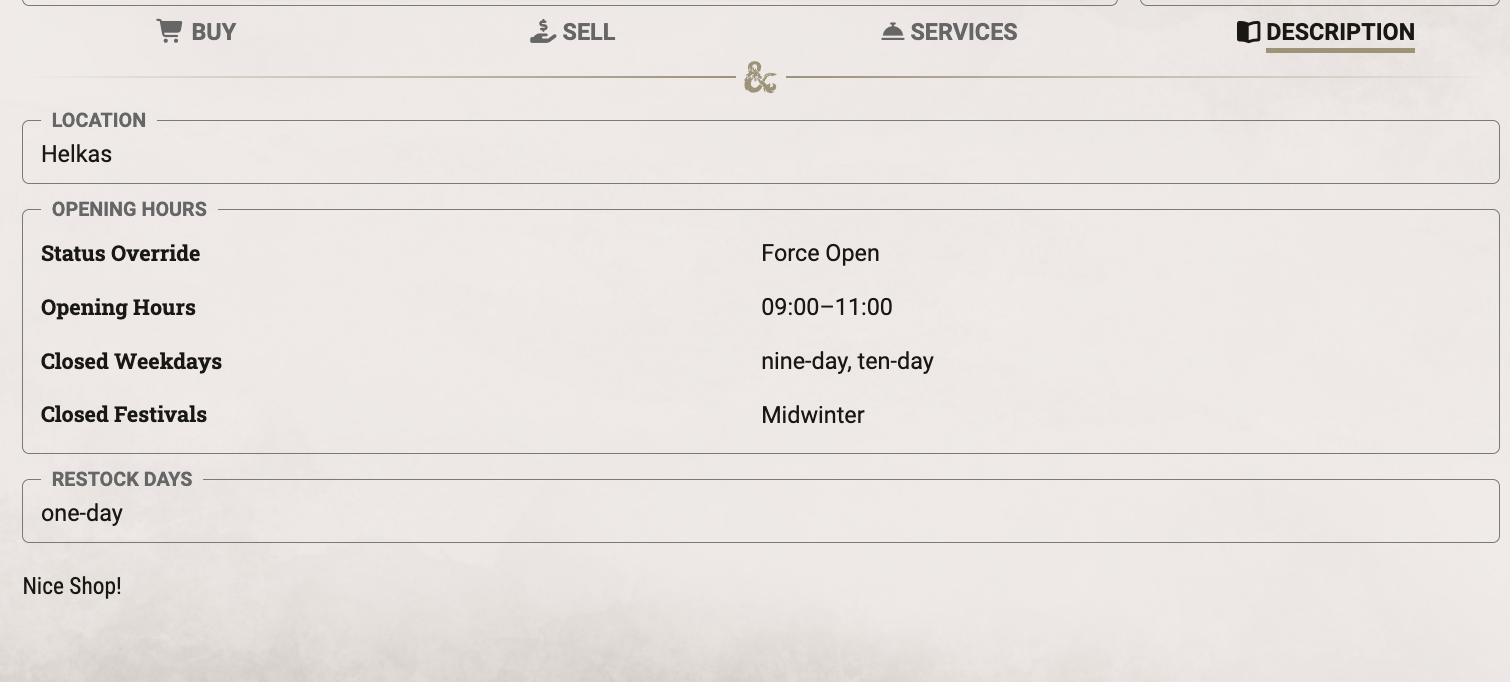
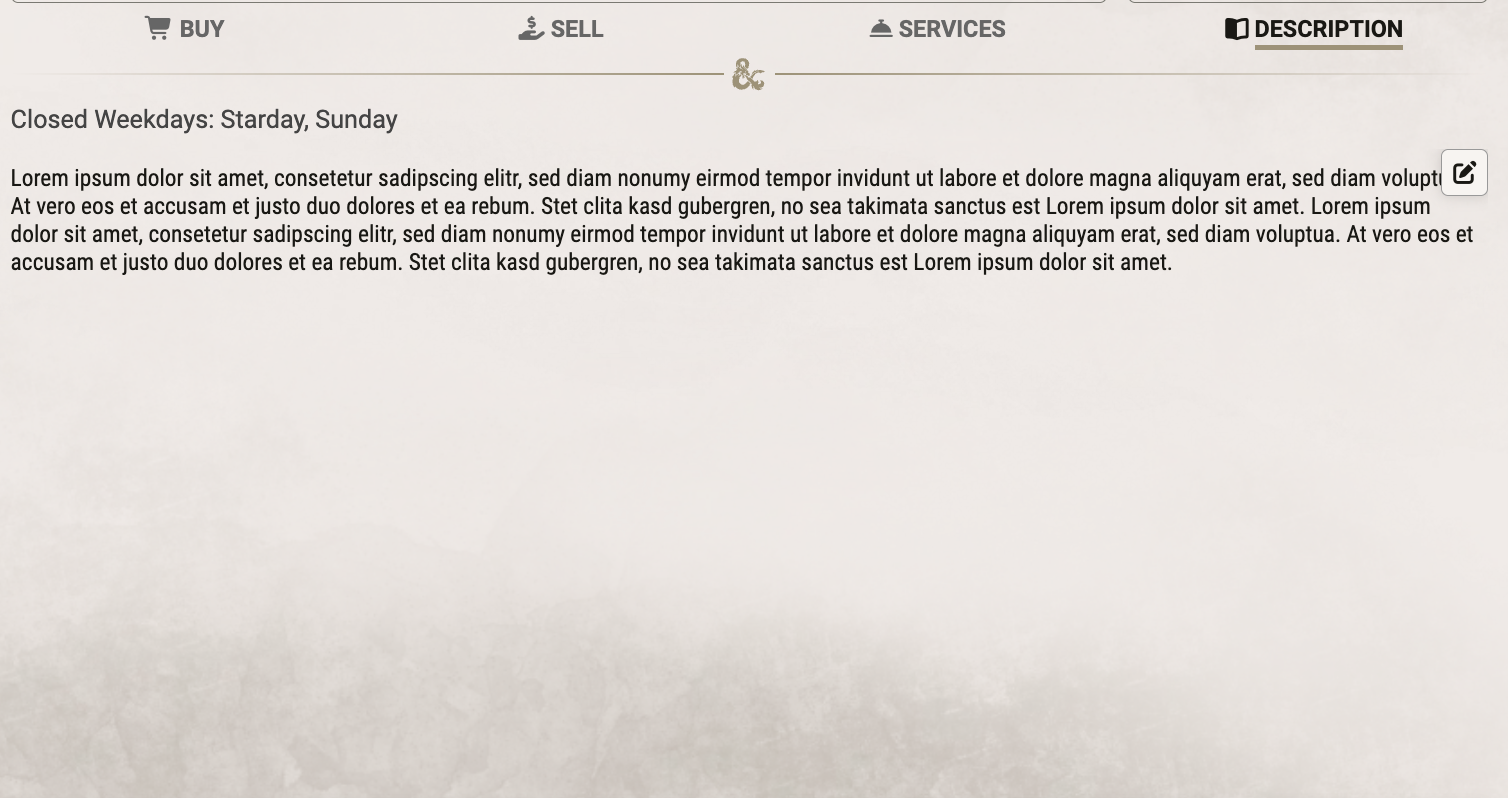
version 1.2.0

diff --git a/css/style.css b/css/style.css
@@ -414,6 +414,7 @@
     flex: 1;
     display: flex;
     flex-direction: column;
+    background: transparent;
   }
 
   .document-image {

diff --git a/README.md b/README.md
@@ -34,8 +34,8 @@ recipes here, and players come here to browse the shops and recipes available to
 
 A new shop needs only a name. Pick a Starter Pack to fill its shelves right away with the stock of a
 Blacksmith, Alchemist, Tavern, General Store, Magic Shop, or Blackmarket. Starter Packs take their items
-from the Player's Handbook if it is active, otherwise from the SRD (SRD 5.1 for the 2014 rules). Every new
-shop starts out Inactive and stays hidden from players until the GM opens it for business.
+from the Player's Handbook, or the SRD without it. Every new shop starts out Inactive and stays hidden from
+players until the GM opens it for business.
 
 ---
 
@@ -48,8 +48,8 @@ The Shops tab lists every shop with its owner, opening hours, Settlement Cap, an
 - **Active and Inactive.** Shops sit in separate groups, and players only ever see the Active ones. With
   Activation set to Scene Active in its Vendor Settings, a shop is Active only while one of its scenes is.
   Toggling it by hand lasts until the active scene changes.
-- **Shop actions.** Right-click a shop to toggle it Active, open its Vendor Settings, duplicate it, or
-  delete it.
+- **Shop actions.** Right-click a shop to toggle it Active, open its Vendor Settings or Transaction Log,
+  duplicate it, or delete it.
 - **Show to All Players.** Opens the shop on every connected screen at once, for the moment the party steps
   through the door.
 
@@ -64,8 +64,9 @@ The Shops tab lists every shop with its owner, opening hours, Settlement Cap, an
 
 ### Shop Sheet
 
-Each shop opens in its own sheet with four tabs. The header shows the shop's owner, Settlement Cap, Buy and
-Sell modifiers, and the coin in its till.
+Each shop opens in its own sheet with four tabs. Its location and opening hours show under its name. The
+header shows the shop's owner and its Buy and Sell modifiers. The GM also sees the Settlement Cap and the
+shop money there, and finds buttons for the Vendor Settings and the Transaction Log in the title bar.
 
 - **Buy.** The GM adds items from the Compendium Browser, by UUID, or by dragging them in. Fill from Table
   draws stock from a RollTable, configuring drawn Spell Scrolls and enchantment items by hand or at random,
@@ -77,15 +78,14 @@ Sell modifiers, and the coin in its till.
   inventory instead of by item type.
 - **Services.** Holds Lodging and Hirelings, along with any Buy item marked as a Service. A service costs
   coin but hands over no item.
-- **Description.** The shop's location, opening hours, restock days, and a description of the place.
-  Outside its opening hours players can't enter the shop, unless the GM forces it open.
+- **Description.** A description of the place and the days the shop is closed. Outside its opening hours
+  players can't enter the shop, unless the GM forces it open.
 - **Who buys.** Players shop with their own character or with the Party actor.
-- **Checkout.** Purchases and sales gather in a cart. On confirmation the order goes to the GM as a chat
-  card, and items and coin change hands once the GM accepts.
-- **Stacking.** An item of the same type and identifier that the character already owns gains quantity
-  instead of arriving as a copy. Containers never stack, and neither do items that still have the default
-  identifier, which is the item type such as "weapon". The Buy tab shows the GM a warning icon for these
-  items, for copies sharing an identifier, and for duplicate entries.
+- **Checkout.** Purchases and sales gather in a cart and go out as one order.
+- **Stacking.** A bought item gains quantity on an item of the same type and identifier that the character
+  already owns, instead of arriving as a copy. Containers and items with the default identifier, the item
+  type such as "weapon", never stack. The GM sees a warning icon in the Buy tab for items that can't stack
+  and for duplicate entries.
 
 <table>
   <tr>
@@ -108,34 +108,54 @@ Sell modifiers, and the coin in its till.
     </td>
     <td width="50%">
       <strong>Description tab</strong><br>
-      <img src="docs/example_shop_description.png" alt="Description tab with location, opening hours, closed days, and restock days">
+      <img src="docs/example_shop_description.png" alt="Description tab with the closed days and the description of the shop">
     </td>
   </tr>
 </table>
 
 ### Stock & Restock
 
-Vendor Settings hold the shop's name, owner, location, opening hours, and Restock Days, its price
-modifiers and Settlement Cap, its money, the item types it buys, and the default stock for new items.
+The Vendor Settings have three tabs. General holds the shop's name, owner, icon, location, scenes, and
+opening hours. Prices holds its modifiers and Settlement Cap. Money & Stock holds its money, the item types
+it buys, the default stock for new items, and the Restock Days. Each item has its own Item Settings, which
+the GM opens with the pencil button in Edit mode or from the item's menu.
 
-- **Stock modes.** Each item has Normal Stock, Unlimited Stock, or Exclude from Stock. Excluded items keep
-  their count but never restock, for the one-of-a-kind piece.
+- **Stock modes.** Each item has Normal Stock, Unlimited Stock, or Exclude from Stock, set in its Item
+  Settings. Excluded items keep their count but never restock, for the one-of-a-kind piece.
+- **Current stock.** The GM changes the current stock of an item right in the Stock column, in any mode.
 - **Default stock.** New items start with a max stock set per item type. The Magical Items rule decides
-  which magic items skip that default and start excluded instead. Any item can still set its own stock.
-- **Shop money.** The till has a Current and a Max amount, or is Unlimited. Purchases by players can push
-  Current past Max. With Purchase Only, the shop buys nothing from players.
+  which magic items skip that default and start excluded instead. Any item can still set its own Max Stock
+  in its Item Settings.
+- **Shop money.** The GM sees the shop's current money in the header and can edit it at any time. The
+  Restock Amount in the Vendor Settings is what it returns to on restock, or the shop has Unlimited Money.
+  Purchases by players can push the current money past that amount. With Purchase Only, the shop buys
+  nothing from players.
 - **Accepted Item Types.** Limits which item types, and optionally subtypes, the shop buys from players. The
   Sell tab then lists only matching items. Left empty, the shop buys anything. Not available with Purchase
   Only.
-- **Restock.** Reset Stock & Shop Money refills every Normal item and returns the till to Max. On the chosen
-  Restock Days this happens on its own at the next in-game day change. This needs a calendar source (see
-  [Settings](#settings)).
+- **Restock.** Reset Stock & Shop Money refills every Normal item and returns the shop money to the Restock
+  Amount. On the chosen Restock Days this happens on its own at the next in-game day change. This needs a
+  calendar source (see [Settings](#settings)).
 
 <table>
   <tr>
-    <td>
-      <strong>Vendor Settings</strong><br>
-      <img src="docs/example_vendor_setting.png" alt="Vendor Settings with shop name, shop money, and default stock per item type" width="320">
+    <td width="50%">
+      <strong>Vendor Settings: General</strong><br>
+      <img src="docs/example_vendor_setting_general.png" alt="General tab of the Vendor Settings with shop name, owner, icon, location, scenes, and opening hours">
+    </td>
+    <td width="50%">
+      <strong>Vendor Settings: Prices</strong><br>
+      <img src="docs/example_vendor_setting_prices.png" alt="Prices tab of the Vendor Settings with Buy and Sell modifiers, Fixed-Value Loot Types, and Settlement Cap">
+    </td>
+  </tr>
+  <tr>
+    <td width="50%">
+      <strong>Vendor Settings: Money & Stock</strong><br>
+      <img src="docs/example_vendor_setting_stock.png" alt="Money & Stock tab of the Vendor Settings with restock money, accepted item types, and default stock per item type">
+    </td>
+    <td width="50%">
+      <strong>Item Settings</strong><br>
+      <img src="docs/example_item_setting.png" alt="Item Settings of a Dagger with price, bundle size, price modifier, restock mode, and max stock">
     </td>
   </tr>
 </table>
@@ -144,8 +164,8 @@ modifiers and Settlement Cap, its money, the item types it buys, and the default
 
 Every purchase and sale the GM accepts is written to the log.
 
-- **Opening.** Open a shop's log with the button in its Vendor Settings. The module settings open the log of
-  all shops (see [Settings](#settings)).
+- **Opening.** Open a shop's log with the button in the title bar of its sheet or from its menu in the Shop
+  Manager.
 - **Entries.** Each line shows the time, the character, the items bought and sold, and the net amount, which
   is negative when the shop paid the character. The search field narrows the list.
 - **Sharing.** Export a shop's log to JSON and import it into a shop's log, in this or another world.
@@ -173,8 +193,8 @@ Every price starts from the item's own value and passes through the shop's modif
 shows which modifiers applied.
 
 - **Shop modifiers.** A Buy and a Sell modifier apply to every trade, by default +0% and −50%.
-- **Item overrides.** In Edit mode, the Item Settings of an item give it its own price, or its own
-  modifier in place of the shop's.
+- **Item overrides.** In its Item Settings, an item can have its own price, or its own modifier in place of
+  the shop's.
 - **Fixed-Value items.** Gemstones, art objects, and trade goods keep their full value, bought or sold. The
   list of loot types is set per shop.
 - **Crafter.** With the 2024 rules, a character with the Crafter feat pays 20% less for nonmagical items,
@@ -206,9 +226,9 @@ The GM can grant single players their own deal, and players can try to haggle th
   bonus (Sell) of 5, 10, 15, 20, or 25 percent, with 10 preselected. Apply sets the player's modifier for
   that side at this shop and replaces the one it had, Reject leaves it alone. The modifier stays until the
   GM changes it in the Players dialog.
-- **Cooldown.** A failed roll locks that skill on that side of the shop for 24 hours, a success locks every
-  Charisma skill on that side. The lock lifts 24 hours of in-game time after the roll, or the GM resets it
-  in the Players dialog.
+- **Cooldown.** A failed roll locks that skill on that side of the shop, a success locks every Charisma skill
+  on that side. The lock lifts 24 hours of in-game time after the roll, or the GM resets it in the Players
+  dialog.
 
 <table>
   <tr>
@@ -246,9 +266,7 @@ Generate Item rolls up new stock for a shop. The GM reviews every result before 
 - **Spell Scrolls.** Each scroll carries a real spell, filtered by school, class, level, or rituals.
 - **Enspelled Items.** Enspelled Staffs, Weapons, and Armor come bound to a random spell of the level their
   rarity allows.
-- **Weighting.** Sets how often enchanted items come up: per Combination, Variant, or Template.
-- **Pool.** Shows how many entries each rarity holds, and how many the Settlement Cap or the shop's current
-  stock leave out.
+- **Weighting and pool.** Tune how often enchanted items come up, and see how many entries each rarity holds.
 - **Results.** Up to ten items per roll. Reroll or remove single results, then add the rest to the shop.
 
 <table>
@@ -291,10 +309,10 @@ Recipe Editor, where clicking the name of a target item or material opens it.
   is configured like an item added to a shop, with its profile and base item. The Additional Items of the
   enchantment come with the finished item.
 - **Default recipes.** With the modern rules, Import Default Recipes creates a recipe for each item of the
-  Player's Handbook, or the SRD 5.2 without it, that a chosen tool can craft. Items that already have a recipe
-  are skipped, and the recipes unlock for every character proficient with the tool.
-- **Missing items.** A recipe whose target item can't be found, for example because its compendium is
-  inactive, is greyed out with a warning for the GM and hidden from players.
+  Player's Handbook, or the SRD 5.2 without it, that a chosen tool can craft, skipping items that already
+  have one.
+- **Missing items.** A recipe whose target item can't be found is greyed out with a warning for the GM and
+  hidden from players.
 - **Sharing.** Export recipes to JSON and import them into another world.
 
 <table>
@@ -359,16 +377,16 @@ downtime.
 
 Three menus and two settings in the module settings hold world-wide options.
 
-- **Configure Defaults.** The Buy and Sell modifiers, shop money, Magical Items rule, and default stock per
-  item type that every new shop starts with.
+- **Configure Defaults.** The Buy and Sell modifiers, Restock Amount, Magical Items rule, and default stock
+  per item type that every new shop starts with.
 - **Configure Homebrew.** Max Hours per Workday for crafting, 8 by default, Crafting Assistants on or off,
-  Maximum Assistants (one by default, no limit when empty), and the Calendar Mode.
+  Maximum Assistants, and the Calendar Mode.
 - **Calendar Mode.** Restock days, haggling cooldowns, and crafting sessions can follow Foundry's world
   calendar. Calendar Mode turns on by itself when a world clearly keeps its calendar in use: Calendaria or
   Ember is active, or dnd5e's Daily Recovery Mode is set to Calendar Recovery. Set it to Always On or Always
   Off to decide by hand.
 - **Transaction Log.** Opens the log of all shops. Log Transactions turns logging on or off, and Maximum Log
-  Entries sets how many transactions the log keeps, 1,000 by default and between 100 and 5,000.
+  Entries sets how many transactions the log keeps, 1,000 by default.
 
 ---
 

diff --git a/CHANGELOG.md b/CHANGELOG.md
@@ -9,10 +9,14 @@
 - Added the portrait of a shop's owner as the default icon of the shop.
 - Added assigning scenes to a shop, so it can be activated and deactivated together with them.
 - Added editing the current stock of an item directly in the shop sheet.
+- Added a delete button to the items of the Buy and Services tabs in Edit mode.
 - Changed the default Fixed-Value Loot Types of new shops to include Trade Goods.
 - Changed choosing a shop's icon from clicking it in the shop sheet to the Vendor Settings.
+- Changed opening the Transaction Log of a shop from the Vendor Settings to the shop's menu in the Shop Manager and a button in the title bar of the shop sheet.
 - Changed editing the description of a shop to an edit button in the Description tab, which the GM can use without Edit mode.
+- Changed the location and opening hours of a shop from the Description tab to a subtitle of the shop sheet, and removed the restock days from the tab.
 - Fixed importing a transaction log into the log of all shops removing the shop assignment of every imported transaction.
+- Fixed being able to choose no currency for the price of an item, a recipe material, or the Settlement Cap.
 - Fixed deprecation warnings about item weights in shops with dnd5e 6.1.
 - Fixed generated enchanted items missing the Additional Items, activities, and effects that an enchantment carries itself with dnd5e 6.1.
 - Fixed shop icons that are not square, such as portraits, being cropped.
